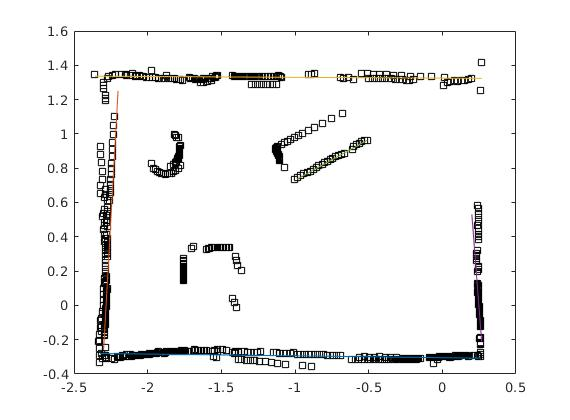
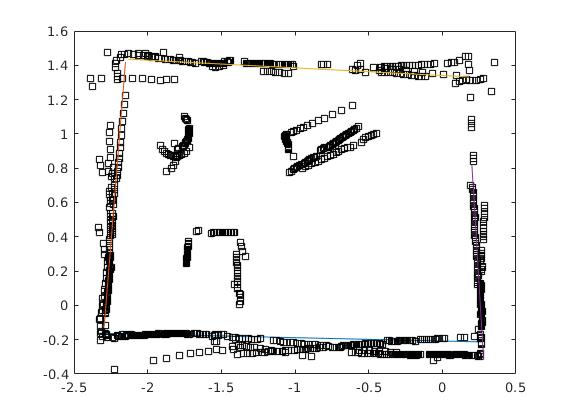
Add files via upload

diff --git a/gauntlet.m b/gauntlet.m
@@ -1,0 +1,308 @@
+load scandata3.mat
+
+
+polar1 = [r_theta(:,1) r_theta(:,5)];
+polar2 = [r_theta(:,2) r_theta(:,6)];
+polar3 = [r_theta(:,3) r_theta(:,7)];
+polar4 = [r_theta(:,4) r_theta(:,8)];
+
+cleanpolar1 = polar1(all(polar1,2),:);
+cleanpolar2 = polar2(all(polar2,2),:);
+cleanpolar3 = polar3(all(polar3,2),:);
+cleanpolar4 = polar4(all(polar4,2),:);
+%polarplot(deg2rad(polar1(:,2)),polar1(:,1),'ks')
+%%
+% figure(1)
+% polarplot(deg2rad(cleanpolar1(:,2)),cleanpolar1(:,1),'ks')
+% figure(2)
+% polarplot(deg2rad(cleanpolar2(:,2)),cleanpolar2(:,1),'ks')
+% figure(3)
+% polarplot(deg2rad(cleanpolar3(:,2)),cleanpolar3(:,1),'ks')
+% figure(4)
+% polarplot(deg2rad(cleanpolar4(:,2)),cleanpolar4(:,1),'ks')
+
+%%
+pos1 = zeros(length(cleanpolar1),2);
+pos2 = zeros(length(cleanpolar2),2);
+pos3 = zeros(length(cleanpolar3),2);
+pos4 = zeros(length(cleanpolar4),2);
+
+
+for i=1:length(pos1)
+    pos1(i,1) = cleanpolar1(i,1)*cos(deg2rad(cleanpolar1(i,2)));
+    pos1(i,2) = cleanpolar1(i,1)*sin(deg2rad(cleanpolar1(i,2)));
+end
+
+for i=1:length(pos2)
+    pos2(i,1) = cleanpolar2(i,1)*cos(deg2rad(cleanpolar2(i,2)));
+    pos2(i,2) = cleanpolar2(i,1)*sin(deg2rad(cleanpolar2(i,2)));
+end
+
+for i=1:length(pos3)
+    pos3(i,1) = cleanpolar3(i,1)*cos(deg2rad(cleanpolar3(i,2)));
+    pos3(i,2) = cleanpolar3(i,1)*sin(deg2rad(cleanpolar3(i,2)));
+end
+
+for i=1:length(pos4)
+    pos4(i,1) = -cleanpolar4(i,1)*cos(deg2rad(cleanpolar4(i,2)));
+    pos4(i,2) = -cleanpolar4(i,1)*sin(deg2rad(cleanpolar4(i,2)));
+end
+% 
+% plot(pos1(:,1),pos1(:,2),'ks')
+% figure(5)
+% plot(pos2(:,1),pos2(:,2),'ks')
+% figure(6)
+% plot(pos3(:,1),pos3(:,2),'ks')
+
+%Fitting all scans into the same coordinate
+
+opos1 = [pos1(:,1), pos1(:,2)];
+opos2 = [pos2(:,1)-0.5, pos2(:,2)+0.36];
+opos3 = [pos3(:,1)-1.38, pos3(:,2)+1];
+opos4 = [pos4(:,1)-1.9, pos4(:,2)+0.13];
+pos = [opos1; opos3; opos4];
+
+% figure()
+% plot(opos1(:,1),opos1(:,2),'ks')
+% hold on
+% plot(opos2(:,1),opos2(:,2),'ks')
+% plot(opos3(:,1),opos3(:,2),'ks')
+% plot(opos4(:,1), opos4(:,2),'ks')
+%
+one = zeros(length(pos),1)+1;
+posro = [pos, one];
+th = -0.05;
+trans = [1 0 -0.25; 0 1 0.3; 0 0 1];
+rotate = [cos(th) sin(th) 0 ; -sin(th) cos(th) 0; 0 0 1];
+posfinal = transpose(rotate*trans*transpose(posro));
+pos = [posfinal(:,1)+0.25,posfinal(:,2)-0.3];
+
+figure(100)
+plot(pos(:,1),pos(:,2),'ks')
+hold on 
+%plot(path(:,1),path(:,2))
+% title('MAP')
+%%
+%RANSAC for walls
+%plots have y<0 (bottom wallb)
+
+finalm = [0];
+finalb = [0];
+
+wallb = [0,0];
+for i = 1:length(pos)
+    if pos(i,2)<-0.27 && pos(i,2)>-0.35
+        wallb = [wallb; pos(i,:)];
+    end
+end
+wallb(1,:) = [];
+
+
+
+%Fitting wallb
+maxvel = 0;
+
+for p = 1:length(wallb)
+    point1 = wallb(p,:);
+    for k = p+1:length(wallb)
+        total = 0;
+        point2 = wallb(k,:);
+        points = [point1; point2];
+        x0 = [points(:,1),[1;1]];
+        B = linsolve(x0,points(:,2));
+        for j = 1:length(wallb)
+  
+            inlier = robustLineFit(wallb(j,1),wallb(j,2),B(1),B(2));
+            total = total+inlier;
+        end
+         
+            if total > maxvel
+                maxvel = total;
+                finalm(1) = [B(1)];
+                finalb(1) = [B(2)];
+            
+            end
+       
+    end
+end
+
+maxvel
+% figure()
+ywall = wallb(:,1)*finalm(1)+finalb(1);
+plot(wallb(:,1),ywall)
+
+
+%% Left wall
+
+walll = [0,0];
+for i = 1:length(pos)
+    if pos(i,1)<-2.2 && pos(i,1) >-2.3
+        walll = [walll; pos(i,:)];
+    end
+end
+walll(1,:) = [];
+
+%Fitting wallb
+maxvel = 0;
+
+for p = 1:length(walll)
+    point1 = walll(p,:);
+    for k = p+1:length(walll)
+        total = 0;
+        point2 = walll(k,:);
+        points = [point1; point2];
+        x0 = [points(:,1),[1;1]];
+        B = linsolve(x0,points(:,2));
+        for j = 1:length(walll)
+           
+            inlier = robustLineFit(walll(j,1),walll(j,2),B(1),B(2));
+            total = total+inlier;
+        end
+         
+            if total > maxvel
+                maxvel = total;
+                finalm(2) = B(1);
+                finalb(2) = B(2);
+            
+            end
+       
+    end
+end
+% figure()
+ywalll = walll(:,1)*finalm(2)+finalb(2);
+plot(walll(:,1),ywalll)
+% hold on
+% plot(walll(:,1),walll(:,2),'ks')
+% title('leftwall')
+
+%% Top wall
+
+wallt = [0,0];
+for i = 1:length(pos)
+    if pos(i,2)>1.2% && pos(i,1)> -2.15 &&pos(i,1)<0.181
+        wallt = [wallt; pos(i,:)];
+    end
+end
+wallt(1,:) = [];
+
+%Fitting wallb
+maxvel = 0;
+
+for p = 1:length(wallt)
+    point1 = wallt(p,:);
+    for k = p+1:length(wallt)
+        total = 0;
+        point2 = wallt(k,:);
+        points = [point1; point2];
+        x0 = [points(:,1),[1;1]];
+        B = linsolve(x0,points(:,2));
+        for j = 1:length(wallt)
+           
+            inlier = robustLineFit(wallt(j,1),wallt(j,2),B(1),B(2));
+            total = total+inlier;
+        end
+         
+            if total > maxvel
+                maxvel = total;
+                finalm(3) = B(1);
+                finalb(3) = B(2);
+            
+            end
+       
+    end
+end
+% figure()
+ywallt = wallt(:,1)*finalm(3)+finalb(3);
+plot(wallt(:,1),ywallt)
+% hold on
+% plot(wallt(:,1),wallt(:,2),'ks')
+% title('topwall')
+
+%% Right Wall
+wallr = [0,0];
+for i = 1:length(pos)
+    if pos(i,1) >0.2 
+        wallr = [wallr; pos(i,:)];
+    end
+end
+wallr(1,:) = [];
+
+%Fitting wallb
+maxvel = 0;
+
+for p = 1:length(wallr)
+    point1 = wallr(p,:);
+    for k = p+1:length(wallr)
+        total = 0;
+        point2 = wallr(k,:);
+        points = [point1; point2];
+        x0 = [points(:,1),[1;1]];
+        B = linsolve(x0,points(:,2));
+        for j = 1:length(wallr)
+           
+            inlier = robustLineFit(wallr(j,1),wallr(j,2),B(1),B(2));
+            total = total+inlier;
+        end
+         
+            if total > maxvel
+                maxvel = total;
+                finalm(4) = B(1);
+                finalb(4) = B(2);
+            
+            end
+       
+    end
+end
+% figure()
+ywallr = wallr(:,1)*finalm(4)+finalb(4);
+plot(wallr(:,1),ywallr)
+% hold on
+% plot(pos(:,1),pos(:,2),'ks')
+% %plot(wallr(:,1),wallr(:,2),'ks')
+% title('rightwall')
+
+%% Barrier 1
+
+bar1 = [0,0];
+for i = 1:length(pos)
+    if pos(i,2) >0.7357 && pos(i,2)< 0.9631 && pos(i,1)>-1 && pos(i,1)< -0.509
+        bar1 = [bar1; pos(i,:)];
+    end
+end
+bar1(1,:) = [];
+
+%Fitting wallb
+maxvel = 0;
+
+for p = 1:length(bar1)
+    point1 = bar1(p,:);
+    for k = p+1:length(bar1)
+        total = 0;
+        point2 = bar1(k,:);
+        points = [point1; point2];
+        x0 = [points(:,1),[1;1]];
+        B = linsolve(x0,points(:,2));
+        for j = 1:length(bar1)
+           
+            inlier = robustLineFit(bar1(j,1),bar1(j,2),B(1),B(2));
+            total = total+inlier;
+        end
+         
+            if total > maxvel
+                maxvel = total;
+                finalm(5) = B(1);
+                finalb(5) = B(2);
+            
+            end
+    end
+end
+% figure()
+ybar1 = bar1(:,1)*finalm(5)+finalb(5);
+plot(bar1(:,1),ybar1)
+% hold on
+% 
+% 
+% plot(pos(:,1),pos(:,2),'ks')
+% title('bar1')
+
+
